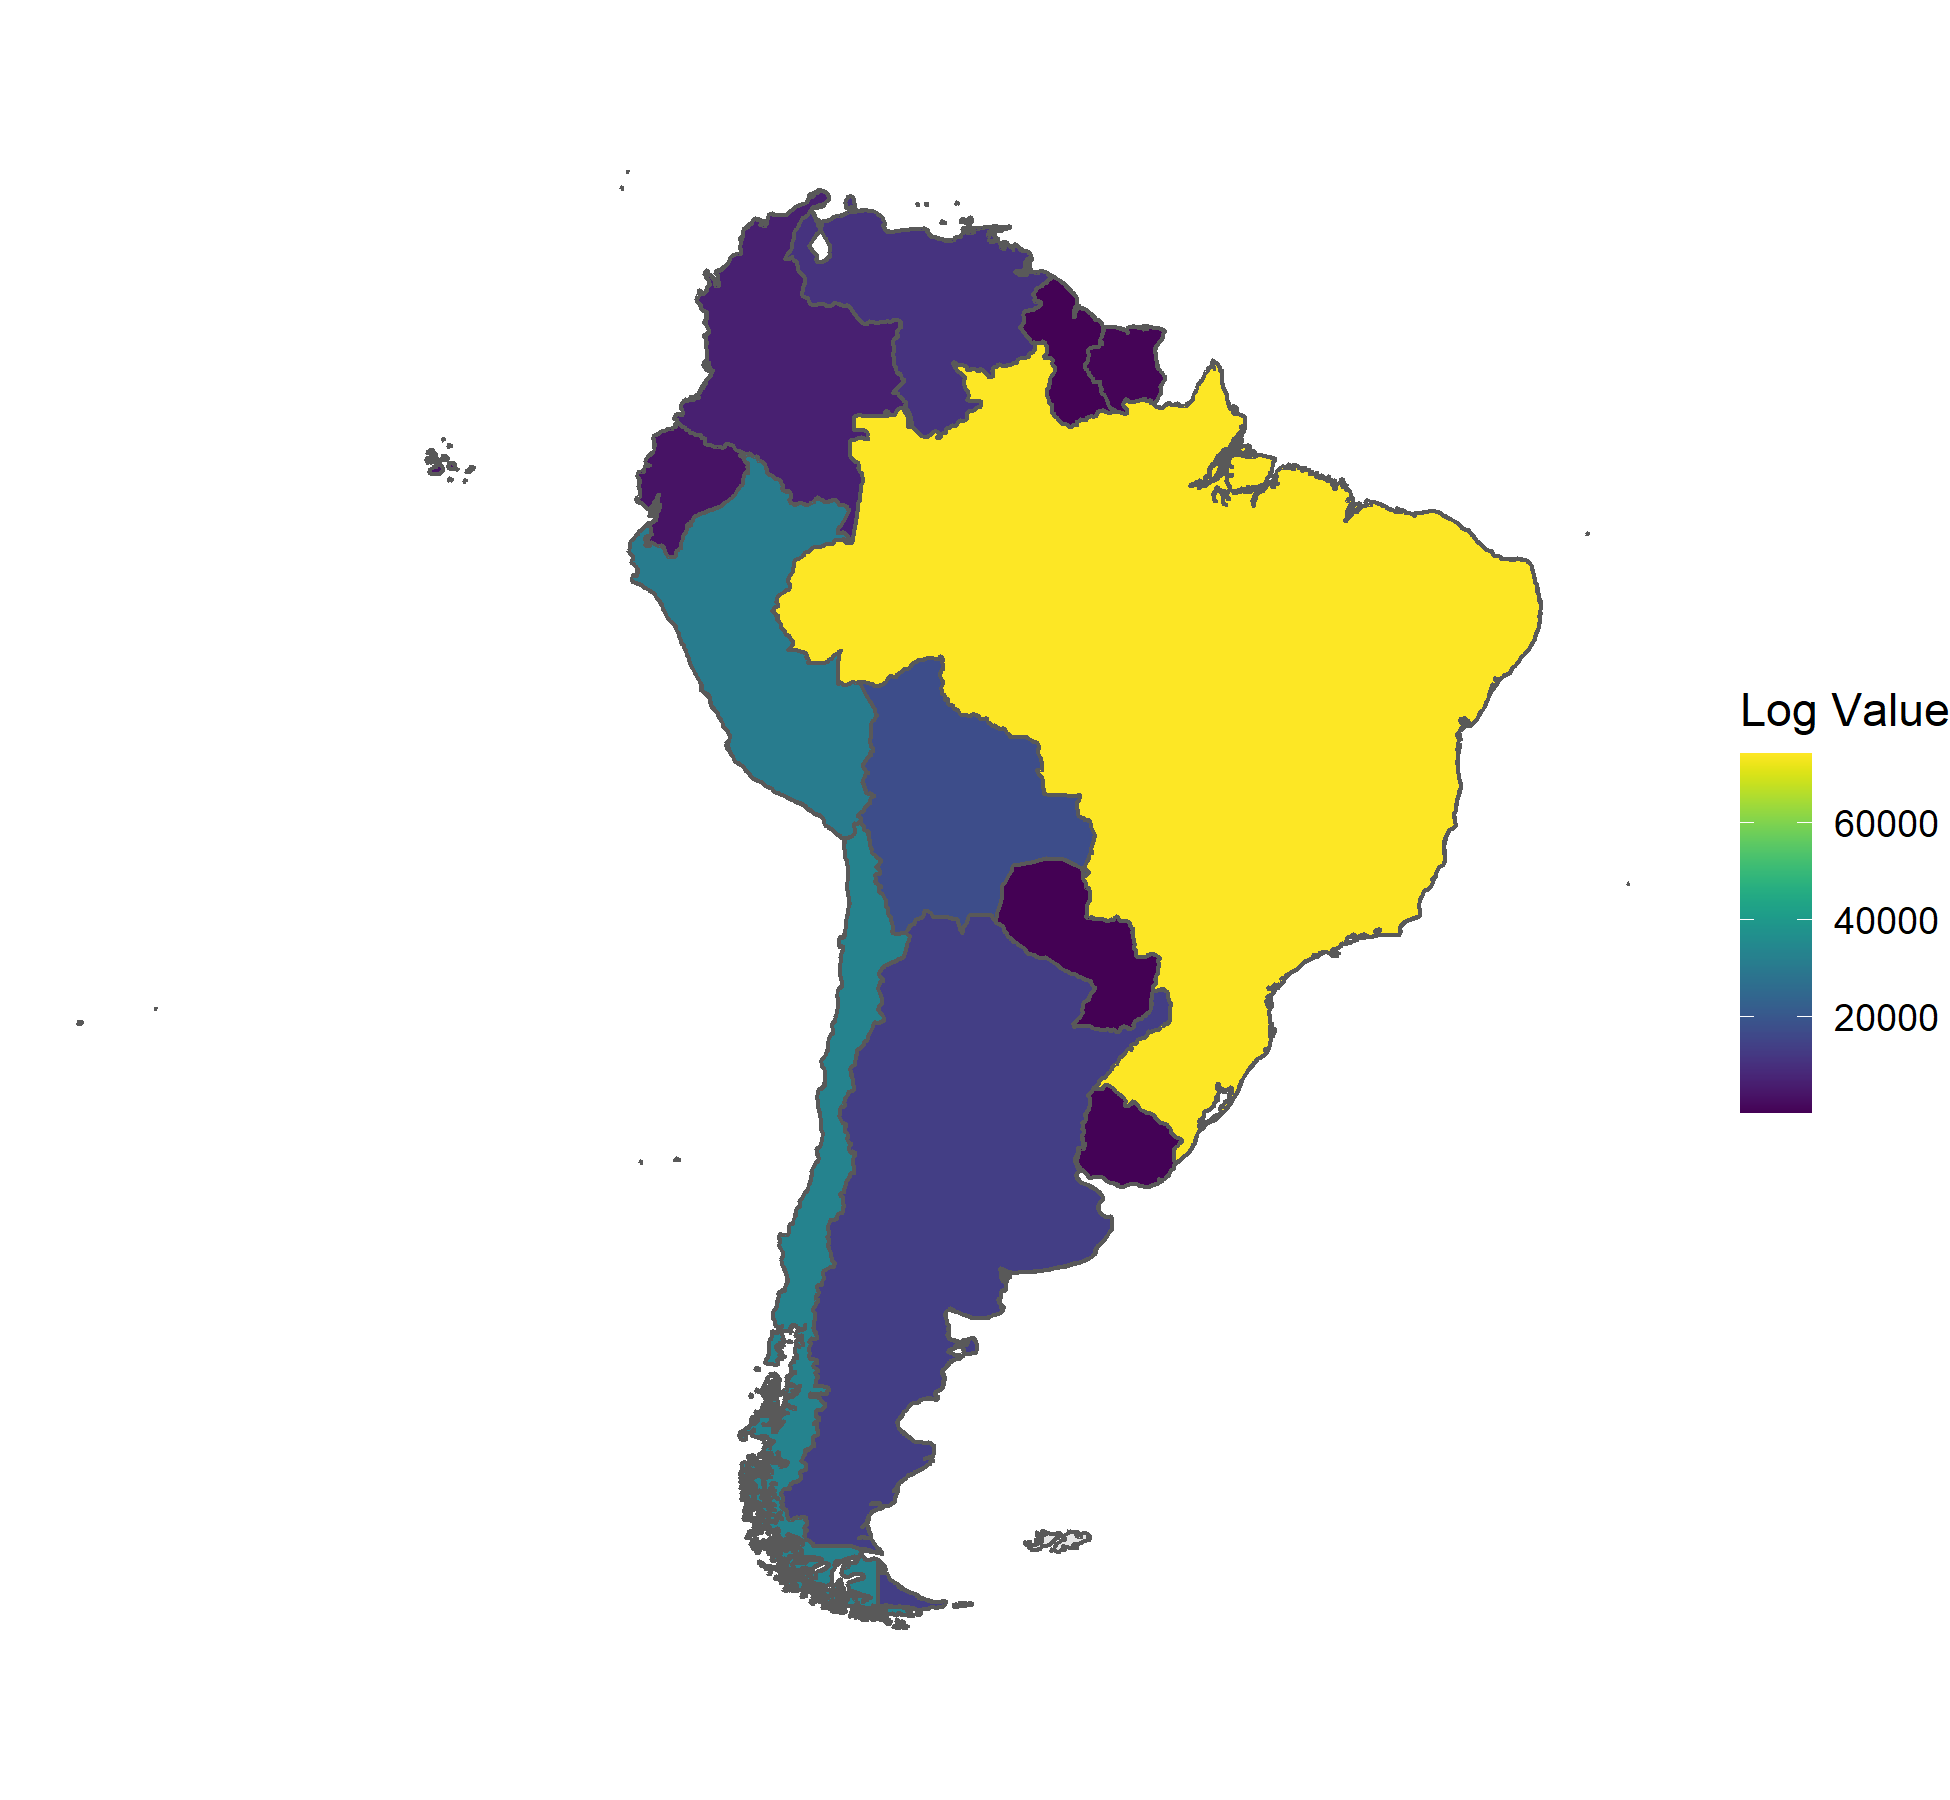
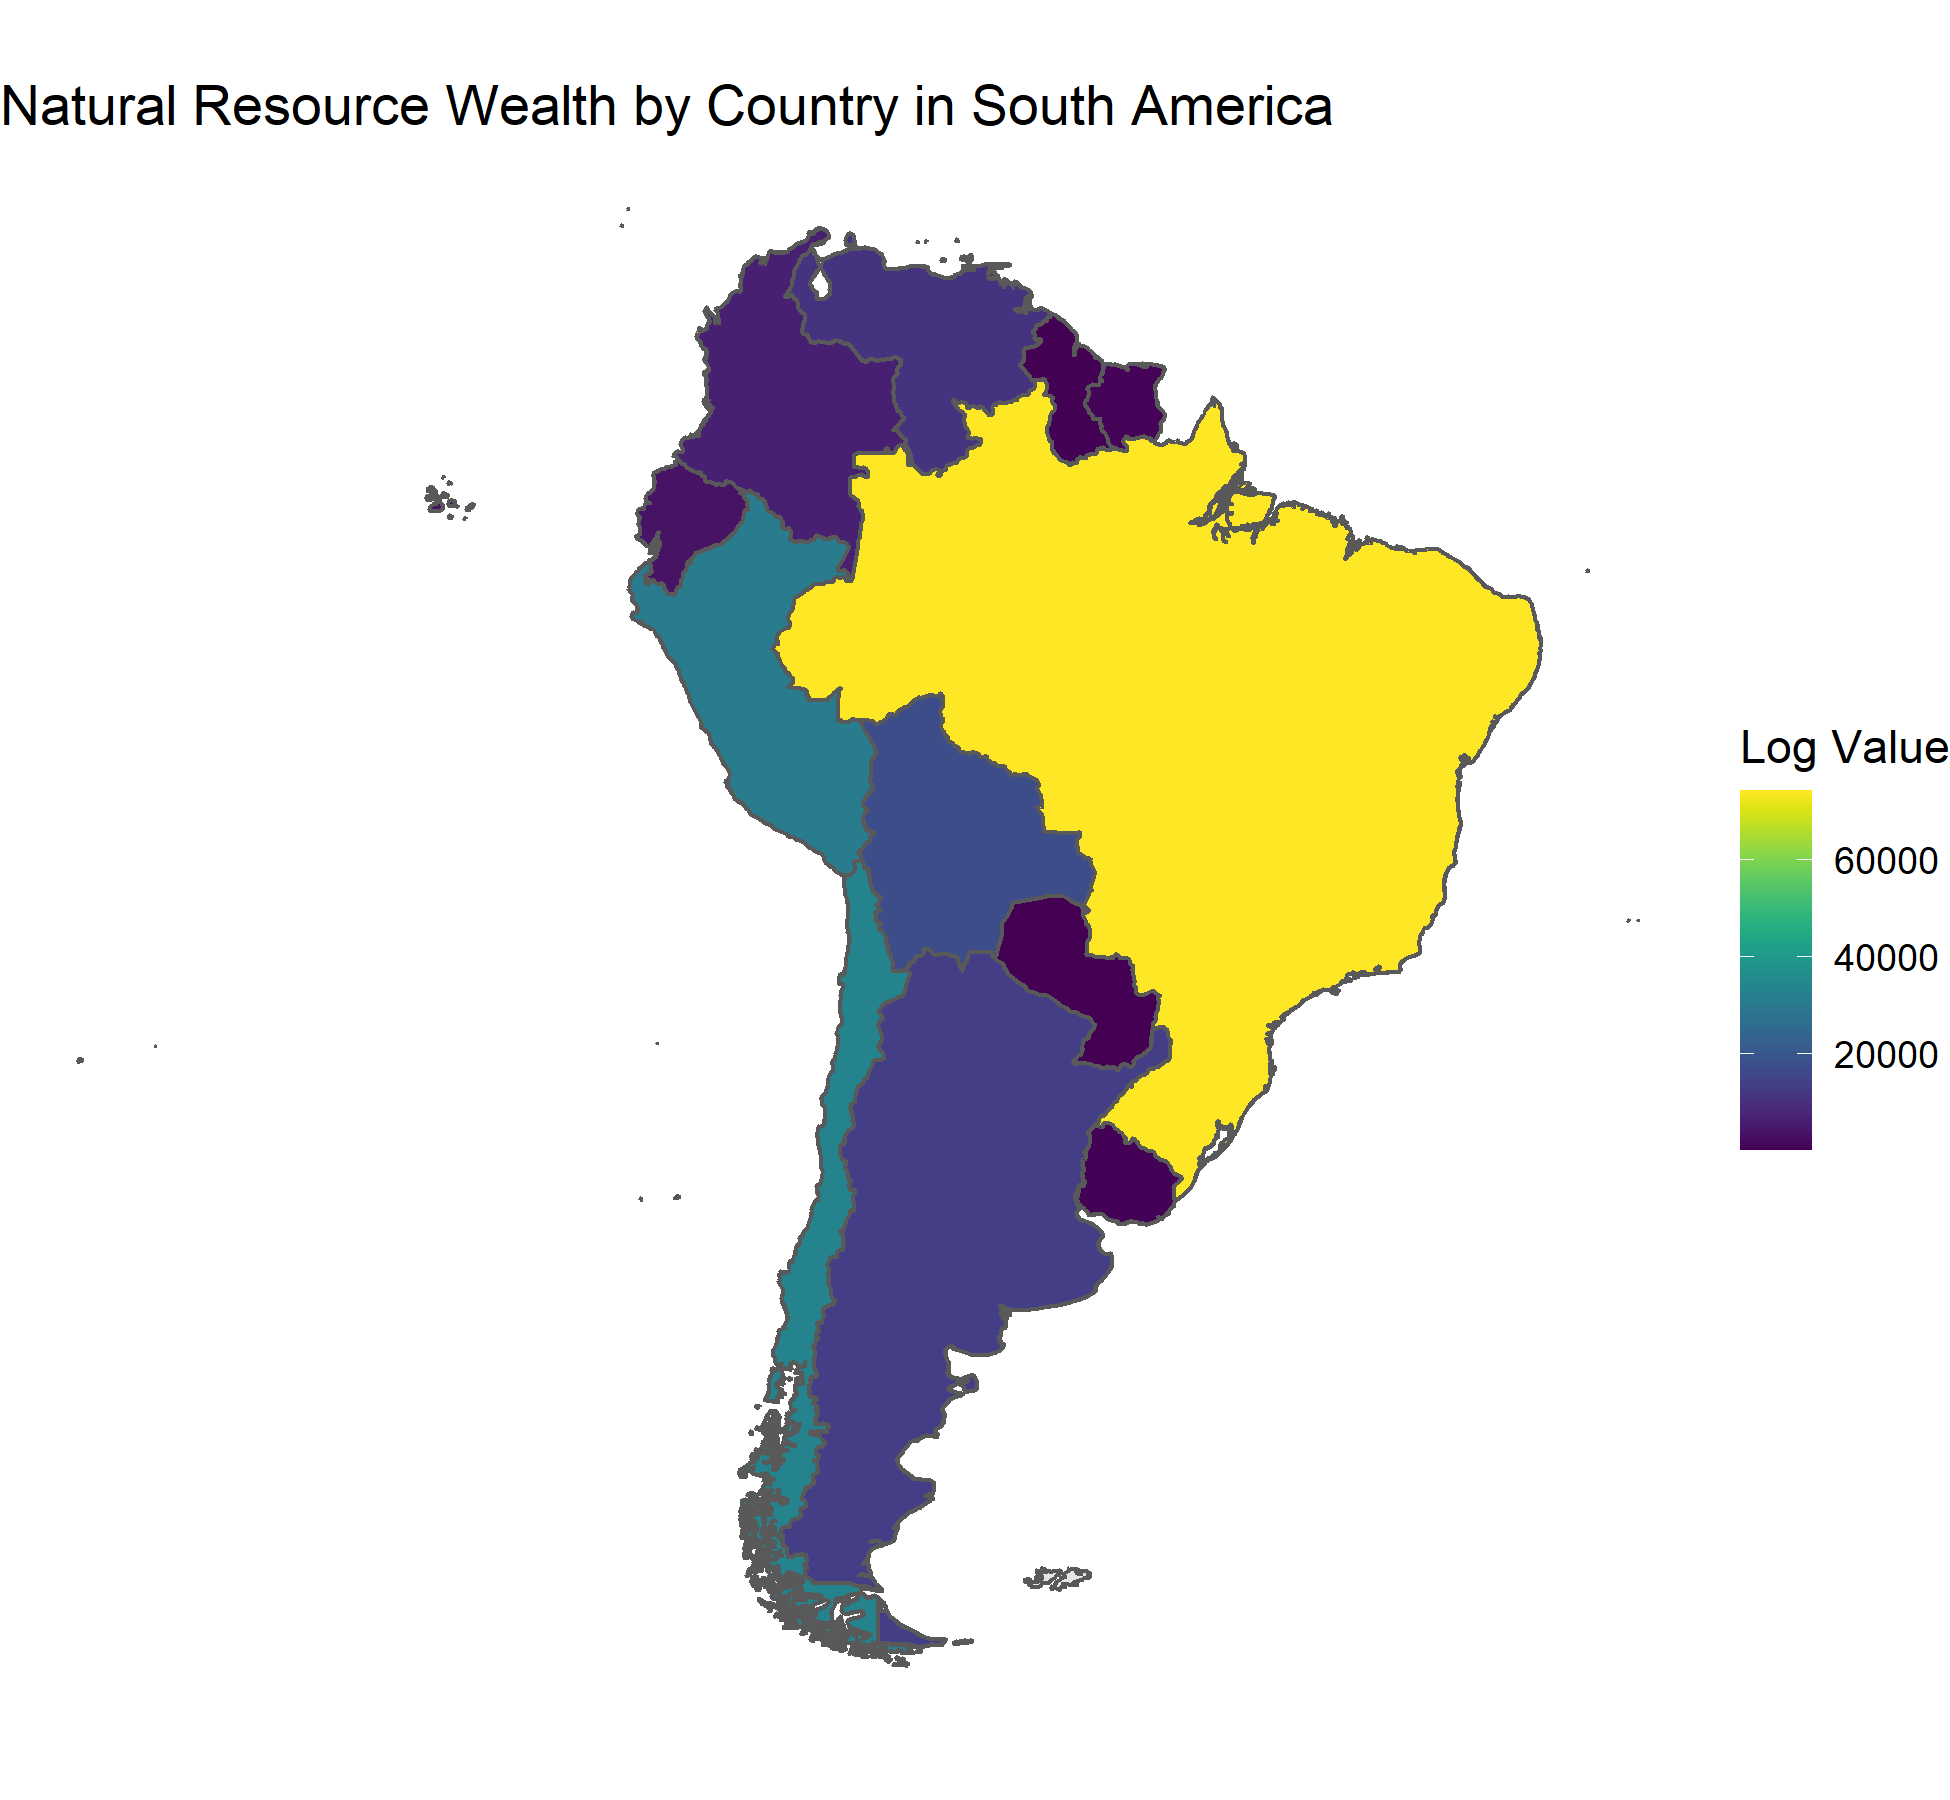
fixing natural resources pages

diff --git a/_research/natural-resources-conflict.md b/_research/natural-resources-conflict.md
@@ -4,11 +4,12 @@ permalink: /research/natural-resources-conflict
 collection: research
 ---
 
+*Revise and Resubmit* at *Journal Conflict Resolution*
 (with Mike Findley, Joelean Hall, Andy Stravers, and Jim Walsh)
 
-Scholars have long examined the relationship between natural resources and conflict at the country level. More recently, researchers have turned to subnational analyses, using either individual countries or subnational data for a small number of resources in sub-Saharan Africa. We introduce a new sub-national dataset of 192 resources that adds many resource types, locations, countries, and country-specific price data from Africa, the Middle East, Asia, Latin America, and Europe. To demonstrate the value of the new dataset, we examine how conflict incidence varies with the value of the collective set of resources in a given location using world prices. We then introduce new country-specific price data, which are more relevant for conflict dynamics. Since country-specific prices can be endogenous to conflict, we instrument country-specific prices using U.S. and world prices. We find that subnational resource wealth is associated with higher levels of conflict using some specifications, though the results vary widely by data source and world region. Using the instrumental variables strategy lends the strongest support to this positive relationship, but only for African countries. [Paper](https://mikedenly.com/files/DFHSW_Natural_Resources_Civil_Conflict-Evidence_New_Georeferenced_Dataset_May232019.pdf)
 
-<figure style="width: 769px; height: 650px"  class="align-center">
-<figcaption>Natural Resources in South America</figcaption>
+Scholars have long examined the relationship between natural resources and conflict at the country level. More recently, researchers have turned to subnational analyses, using either individual countries or subnational data for a small number of resources in sub-Saharan Africa. We introduce a new sub-national dataset of 192 resources that adds many resource types, locations, countries, and country-specific price data from Africa, the Middle East, Asia, Latin America, and Europe. To demonstrate the value of the new dataset, we examine how conflict incidence varies with the value of the collective set of resources in a given location using world prices. We then introduce new country-specific price data, which are more relevant for conflict dynamics. Since country-specific prices can be endogenous to conflict, we instrument country-specific prices using U.S. and world prices. We find that subnational resource wealth is associated with higher levels of conflict using some specifications, though the results vary widely by data source and world region. Using the instrumental variables strategy lends the strongest support to this positive relationship, but only for African countries. [[Paper](https://mikedenly.com/files/DFHSW_Natural_Resources_Civil_Conflict-Evidence_New_Georeferenced_Dataset_May232019.pdf)]
+
+<figure style="width: 769px; height: 550px"  class="align-center">
   <img src="/images/south_america_map.png" alt="" />
 </figure>
